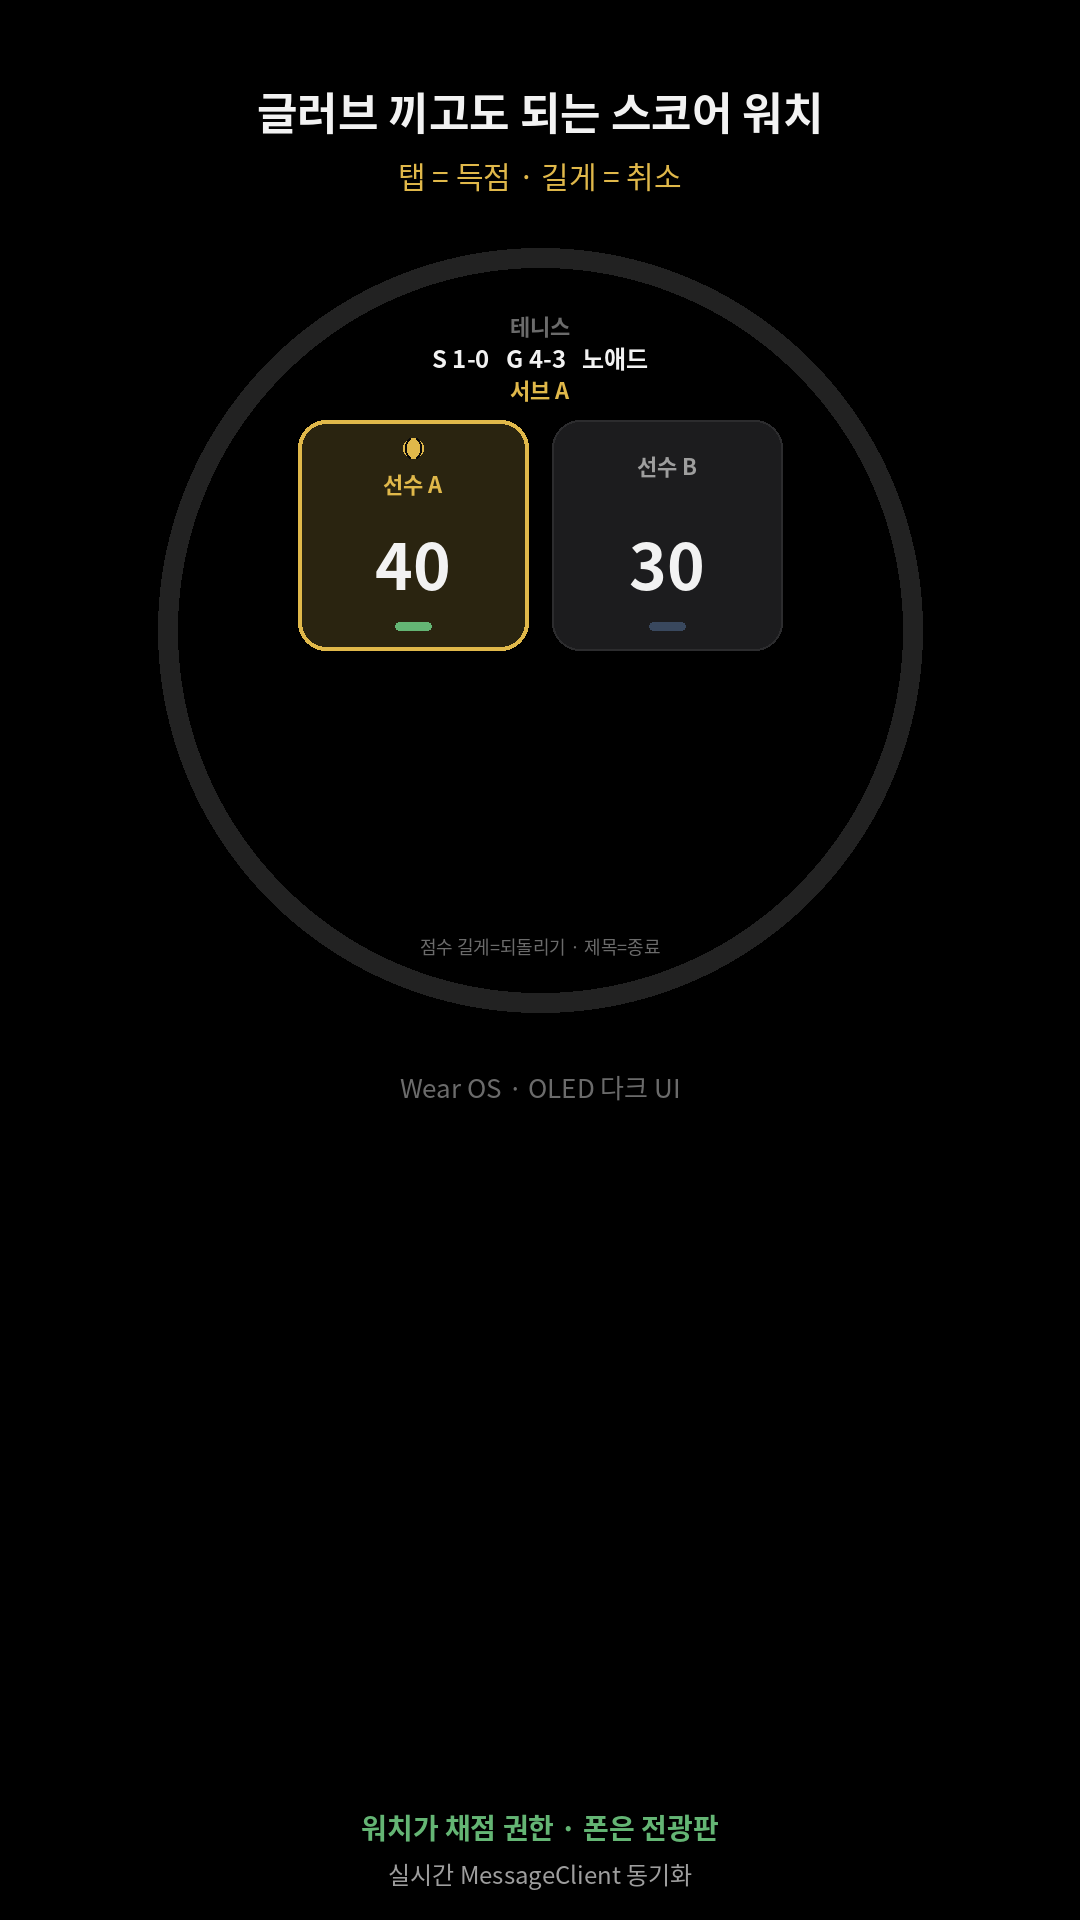
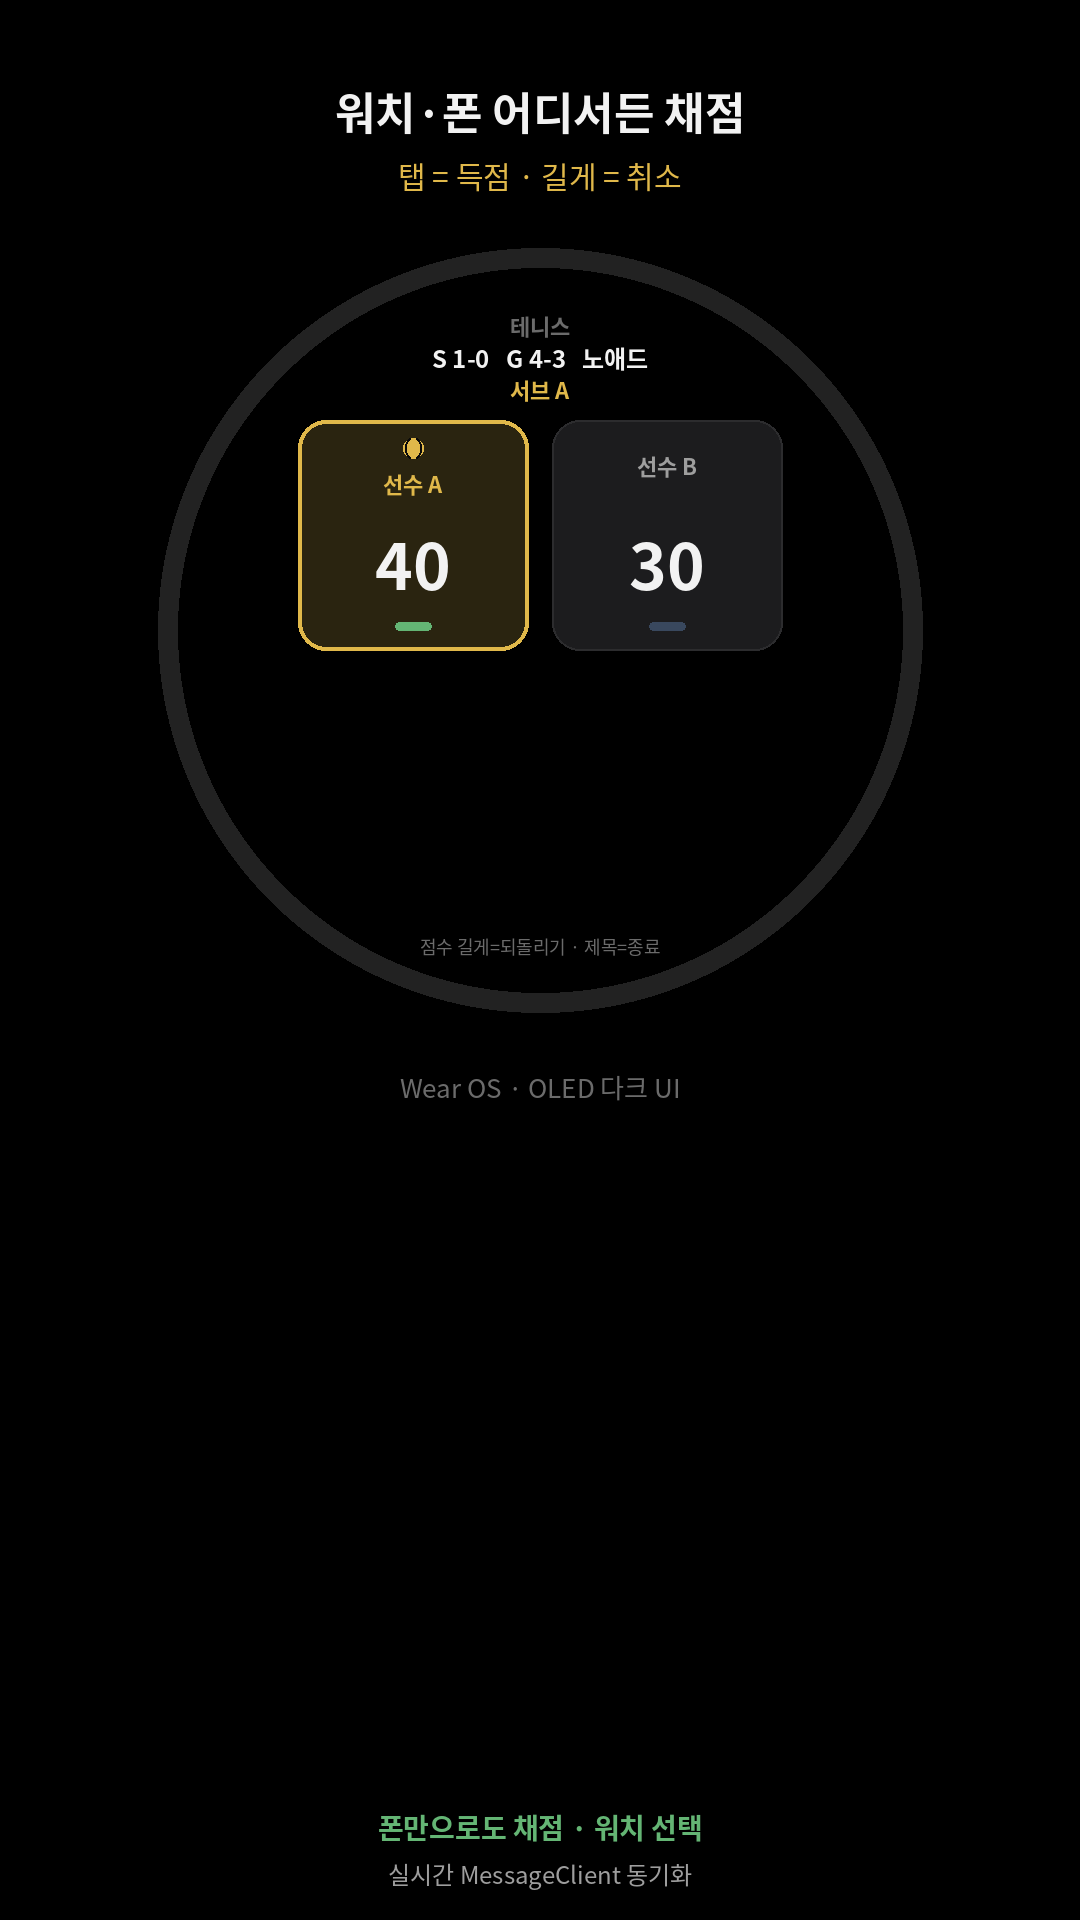
Drop glove marketing; score on watch or phone (KO+EN listings).
Memory: do not claim glove/glove-friendly — screen tap needs capacitive
gloves or hardware buttons. Position SCORECORE as phone-or-watch scoring
(phone can start/score alone; watch optional). Regenerated 01-hero captions;
listing-only, no version bump / no Play upload.

Changed region(s): [[0.2444, 0.0312, 0.7639, 0.0938], [0.3361, 0.9375, 0.5194, 0.9688], [0.55, 0.9375, 0.6722, 0.9688]]

diff --git a/docs/store-screenshots/v153/README.md b/docs/store-screenshots/v153/README.md
@@ -1,4 +1,4 @@
-# Play Store screenshots — SCORECORE 1.5.4
+# Play Store screenshots — SCORECORE 1.5.5
 
 Phone intro screenshots (portrait **1080×1920**). Inner frames mimic the **real Compose OLED UI** (`CourtColors` / `WearCourtColors`: true black, soft court green `#64B574`, serve gold `#E0B84A`) with Korean chrome from `values-ko`.
 
@@ -8,7 +8,7 @@ Phone intro screenshots (portrait **1080×1920**). Inner frames mimic the **real
 
 | # | File | Caption (outside phone) | Inner screen |
 |---|------|-------------------------|--------------|
-| 1 | `01-hero.png` | 글러브 끼고도 되는 스코어 워치 / 탭 = 득점 · 길게 = 취소 | Wear tennis score squares (`선수 A/B`, 노애드, 서브) |
+| 1 | `01-hero.png` | 워치·폰 어디서든 채점 / 탭 = 득점 · 길게 = 취소 | Wear tennis score squares (`선수 A/B`, 노애드, 서브) |
 | 2 | `02-phone-watch.png` | 폰은 전광판, 워치는 채점 / 실시간 동기화 · 노애드 | Phone tennis portrait scoreboard (`A 득점` / `B 득점`, 되돌리기…) |
 | 3 | `03-sports.png` | 테니스 / 배드민턴 한 앱 / 종목 선택 · KR / EN | `SportPickerScreen` (`종목 선택`, 테니스, 배드민턴, 언어 변경, 설정) |
 | 4 | `04-tournament.png` | 4·8명 토너먼트 / 단판 브라켓 | `TournamentBracketScreen` (준결승·결승 cards) |
@@ -20,25 +20,52 @@ Also:
 
 ## Suggested Play listing (KO)
 
+Source: `play-ready/listing-ko.txt`
+
 ### Short description (≤80 chars)
 
-글러브 끼고도 되는 스코어 워치 — 탭=득점·길게=취소, 폰 전광판 동기화
+워치·폰 어디서든 채점 — 탭=득점·길게=취소
 
 ### Full description
 
 스코어코어(SCORECORE)는 Galaxy Watch 등 Wear OS와 폰을 위한 테니스·배드민턴 스코어 앱입니다.
 
-• 글러브 끼고도 되는 채점: 워치에서 탭=득점, 길게 누르기=취소  
-• 폰은 실시간 전광판, 워치는 채점 권한 — MessageClient로 동기화  
-• 테니스(노애드 포함) + 배드민턴(21점 랠리) 한 앱  
-• 첫 실행부터 한국어 / English  
-• 4명·8명 단판 토너먼트 브라켓(폰)
+• 워치에서 탭=득점, 길게 누르기=취소  
+• 폰만으로도 경기 시작·채점 가능 (워치 선택)  
+• 워치 연동 시 폰은 실시간 전광판으로 동기화  
+• 테니스(노애드 포함) + 배드민턴 한 앱  
+• 첫 실행 한국어 / English  
+• 4·8명 단판 토너먼트(폰)
 
 광고 SDK·분석 SDK 없음. 문의: soltlove0885@gmail.com
 
-버전 1.5.4 (phone vc35 / wear vc36)
+버전 1.5.5 (phone vc37 / wear vc40)
+
+## Suggested Play listing (EN — global)
+
+Source: `play-ready/listing-en.txt`
+
+### Short description
+
+Score on watch or phone — tap=point, long-press=undo
+
+### Full description
+
+SCORECORE is a tennis & badminton scoring app for Wear OS (Galaxy Watch and more) and phone.
+
+• Score on the watch or phone: tap = point, long-press = undo  
+• Phone can start and score matches alone — watch is optional  
+• Optional watch sync; phone doubles as live scoreboard when paired  
+• Tennis (including No-Ad) + badminton (rally to 21) in one app  
+• Korean / English from first launch  
+• 4- and 8-player single-elim tournament brackets (phone)
+
+No ads SDK, no analytics SDK. Contact: soltlove0885@gmail.com
+
+Version 1.5.5 (phone vc37 / wear vc40)
 
 ## Notes
 
 - Do **not** upload these via this repo automation; upload manually in Play Console if needed.
 - Colors follow `app/.../ui/Theme.kt` and `wear/.../ui/WearTheme.kt`, not the launcher lime accent.
+- **Positioning memory:** do **not** claim glove / glove-friendly scoring — a normal screen tap is not glove-friendly without capacitive gloves or hardware buttons. Market as **score on watch or phone**; phone-only start/score supported; watch optional.

diff --git a/docs/store-screenshots/v153/play-ready/UPLOAD-CHECKLIST.md b/docs/store-screenshots/v153/play-ready/UPLOAD-CHECKLIST.md
@@ -1,4 +1,4 @@
-# Play Console upload checklist — SCORECORE 1.5.4 (KO)
+# Play Console upload checklist — SCORECORE 1.5.5 (KO + EN)
 
 Base: `/workspace/Tanniscoring/docs/store-screenshots/v153/play-ready/`
 
@@ -28,22 +28,48 @@ Source file: `/workspace/Tanniscoring/docs/store-screenshots/v153/play-ready/lis
 
 ### Short description
 ```
-글러브 끼고도 되는 스코어 워치 — 탭=득점·길게=취소, 폰 전광판 동기화
+워치·폰 어디서든 채점 — 탭=득점·길게=취소
 ```
 
 ### Full description
 ```
 스코어코어(SCORECORE)는 Galaxy Watch 등 Wear OS와 폰을 위한 테니스·배드민턴 스코어 앱입니다.
 
-• 글러브 끼고도 되는 채점: 워치에서 탭=득점, 길게 누르기=취소  
-• 폰은 실시간 전광판, 워치는 채점 권한 — MessageClient로 동기화  
-• 테니스(노애드 포함) + 배드민턴(21점 랠리) 한 앱  
-• 첫 실행부터 한국어 / English  
-• 4명·8명 단판 토너먼트 브라켓(폰)
+• 워치에서 탭=득점, 길게 누르기=취소
+• 폰만으로도 경기 시작·채점 가능 (워치 선택)
+• 워치 연동 시 폰은 실시간 전광판으로 동기화
+• 테니스(노애드 포함) + 배드민턴 한 앱
+• 첫 실행 한국어 / English
+• 4·8명 단판 토너먼트(폰)
 
 광고 SDK·분석 SDK 없음. 문의: soltlove0885@gmail.com
 
-버전 1.5.3 (phone vc33 / wear vc34)
+버전 1.5.5 (phone vc37 / wear vc40)
+```
+
+## Store listing text (English — global)
+
+Source file: `/workspace/Tanniscoring/docs/store-screenshots/v153/play-ready/listing-en.txt`
+
+### Short description
+```
+Score on watch or phone — tap=point, long-press=undo
+```
+
+### Full description
+```
+SCORECORE is a tennis & badminton scoring app for Wear OS (Galaxy Watch and more) and phone.
+
+• Score on the watch or phone: tap = point, long-press = undo
+• Phone can start and score matches alone — watch is optional
+• Optional watch sync; phone doubles as live scoreboard when paired
+• Tennis (including No-Ad) + badminton (rally to 21) in one app
+• Korean / English from first launch
+• 4- and 8-player single-elim tournament brackets (phone)
+
+No ads SDK, no analytics SDK. Contact: soltlove0885@gmail.com
+
+Version 1.5.5 (phone vc37 / wear vc40)
 ```
 
 ## Notes for computer agent
@@ -51,3 +77,4 @@ Source file: `/workspace/Tanniscoring/docs/store-screenshots/v153/play-ready/lis
 - Do not open a browser from this checklist alone; upload only when instructed.
 - Phone screenshots: upload in numeric order (01 → 04).
 - Ignore `.venv/` in this folder (local Pillow tooling only).
+- Positioning memory: **no glove / glove-friendly claims** — screen tap is not glove-friendly without capacitive gloves or hardware buttons. Score on **watch or phone**; phone-only mode supported; watch optional.
